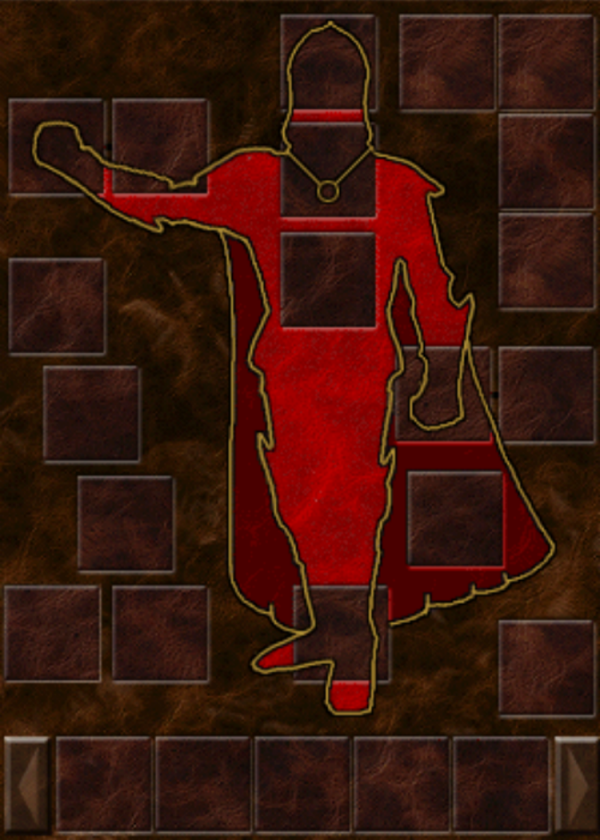
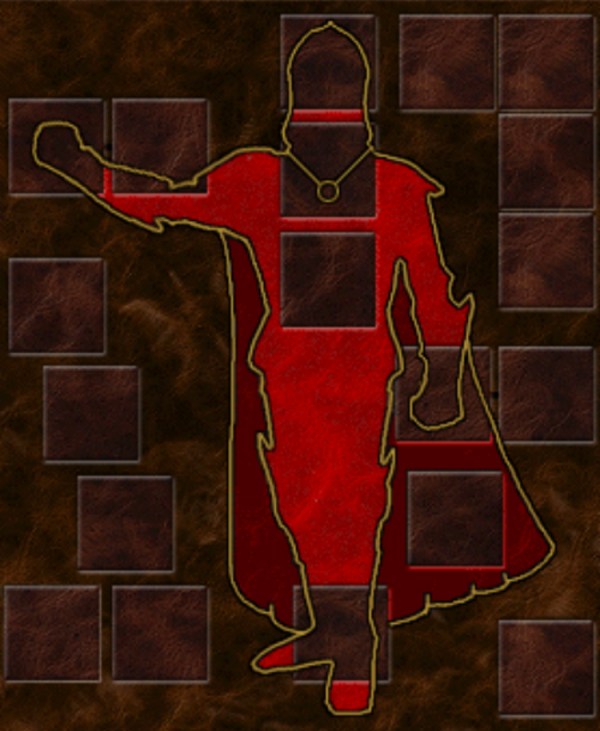
+Happy_Background

diff --git a/main.cpp b/main.cpp
@@ -38,6 +38,15 @@ int main()
 	sf::Sprite sprite_background (background);
 	sprite_background.setPosition (0, 0);
 
+
+	if(rand() %(50) == 1)
+	{
+		assert(background.loadFromFile ("Happy_Background.jpg"));
+
+
+//		sprite_pony_tell.setPosition(400, 420);
+
+	}
 	
 	sf::Texture hero;
 	assert(hero.loadFromFile ("hero.png"));
